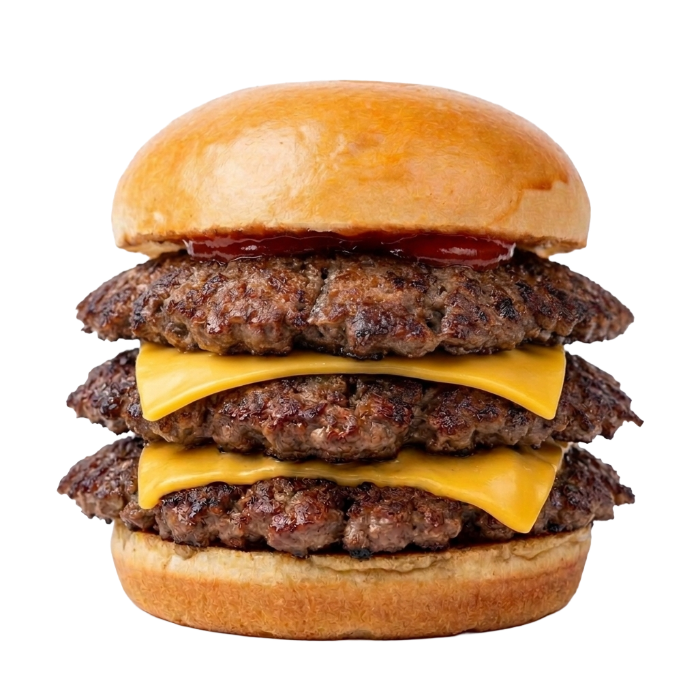
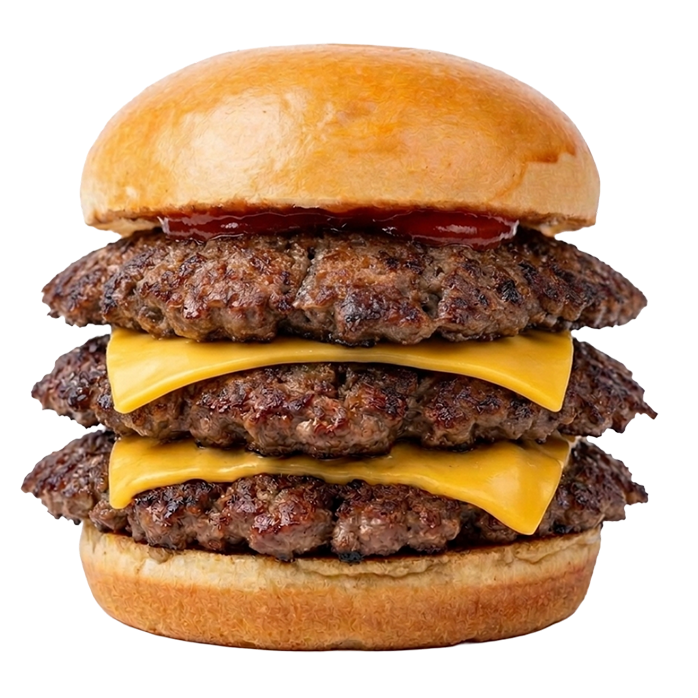
images updated again with correct ratio

diff --git a/src/components/Hero.tsx b/src/components/Hero.tsx
@@ -10,14 +10,14 @@ const slides = [
     title: "REINVENTED",
   },
   {
-    image: "/images/fried-chicken-burger.png",
-    subtitle: "CRISPY",
-    title: "CRUNCH",
+    image: "/images/beef/spicy.png",
+    subtitle: "BOLD",
+    title: "FLAVOR",
   },
   {
-    image: "/images/classic-burger.png",
-    subtitle: "DOUBLE",
-    title: "DELIGHT",
+    image: "/images/beef/sweet.png",
+    subtitle: "SWEET",
+    title: "INDULGENCE",
   },
 ];
 
